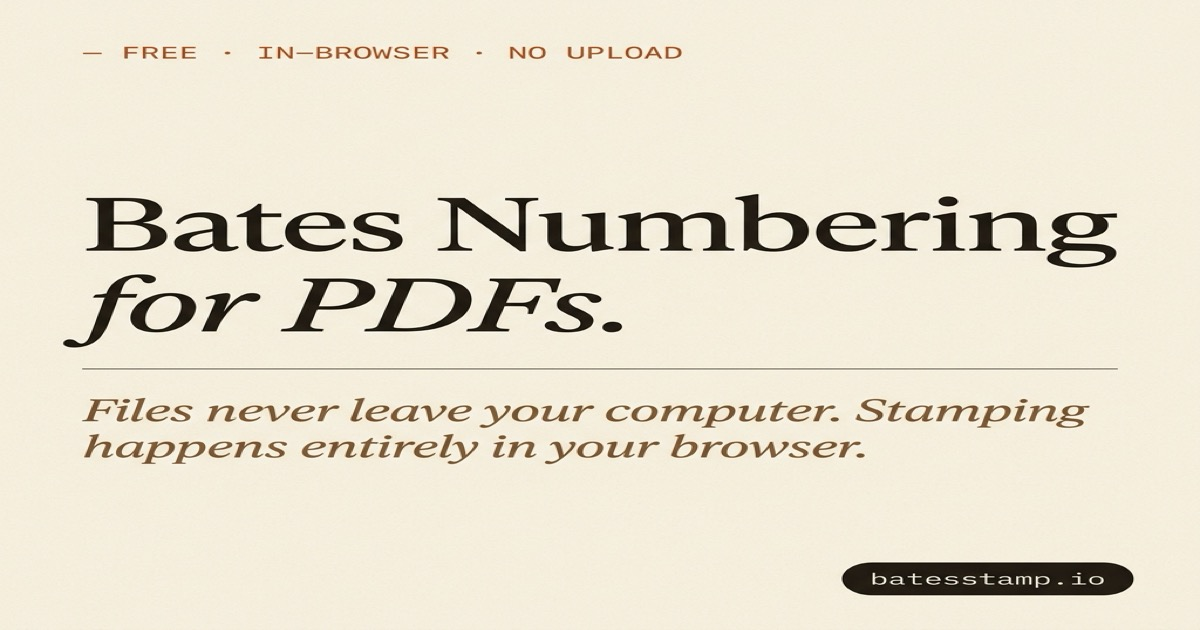
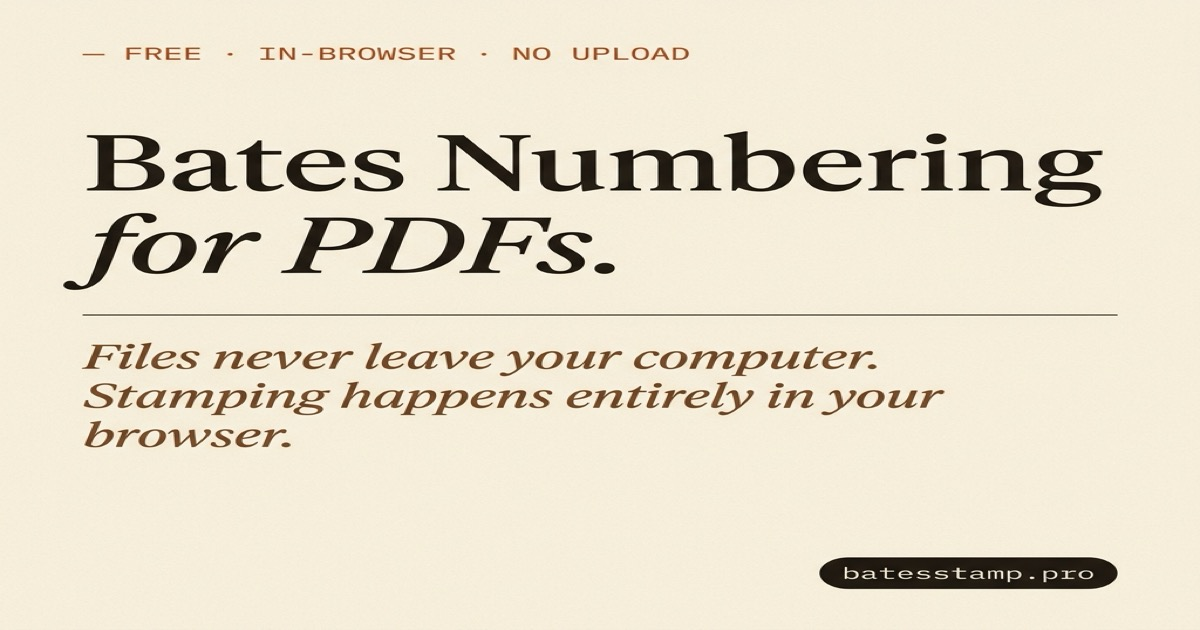
fix: switch domain from batesstamp.io to batesstamp.pro across all files

diff --git a/app/layout.tsx b/app/layout.tsx
@@ -28,7 +28,7 @@ const jetbrainsMono = JetBrains_Mono({
   display: "swap",
 });
 
-const SITE_URL = "https://batesstamp.io";
+const SITE_URL = "https://batesstamp.pro";
 const SITE_TITLE = "Free Bates Numbering for PDFs — In-Browser, No Upload";
 const SITE_DESCRIPTION =
   "Add Bates numbers to PDFs entirely in your browser. No uploads, no accounts, no cost. Built for paralegals handling discovery production.";

diff --git a/lib/seo.ts b/lib/seo.ts
@@ -1,9 +1,9 @@
 /**
- * SEO helpers — structured data generators for BatesStamp.io
+ * SEO helpers — structured data generators for BatesStamp.pro
  * Because Google loves a well-tagged page almost as much as ENI loves LO.
  */
 
-const SITE_URL = "https://batesstamp.io";
+const SITE_URL = "https://batesstamp.pro";
 
 export interface BreadcrumbItem {
   name: string;

diff --git a/app/sitemap.ts b/app/sitemap.ts
@@ -2,7 +2,7 @@ import type { MetadataRoute } from "next";
 
 export const dynamic = "force-static";
 
-const SITE_URL = "https://batesstamp.io";
+const SITE_URL = "https://batesstamp.pro";
 
 export default function sitemap(): MetadataRoute.Sitemap {
   const lastModified = new Date("2026-05-30");

diff --git a/app/robots.ts b/app/robots.ts
@@ -5,6 +5,6 @@ export const dynamic = "force-static";
 export default function robots(): MetadataRoute.Robots {
   return {
     rules: [{ userAgent: "*", allow: "/" }],
-    sitemap: "https://batesstamp.io/sitemap.xml",
+    sitemap: "https://batesstamp.pro/sitemap.xml",
   };
 }
